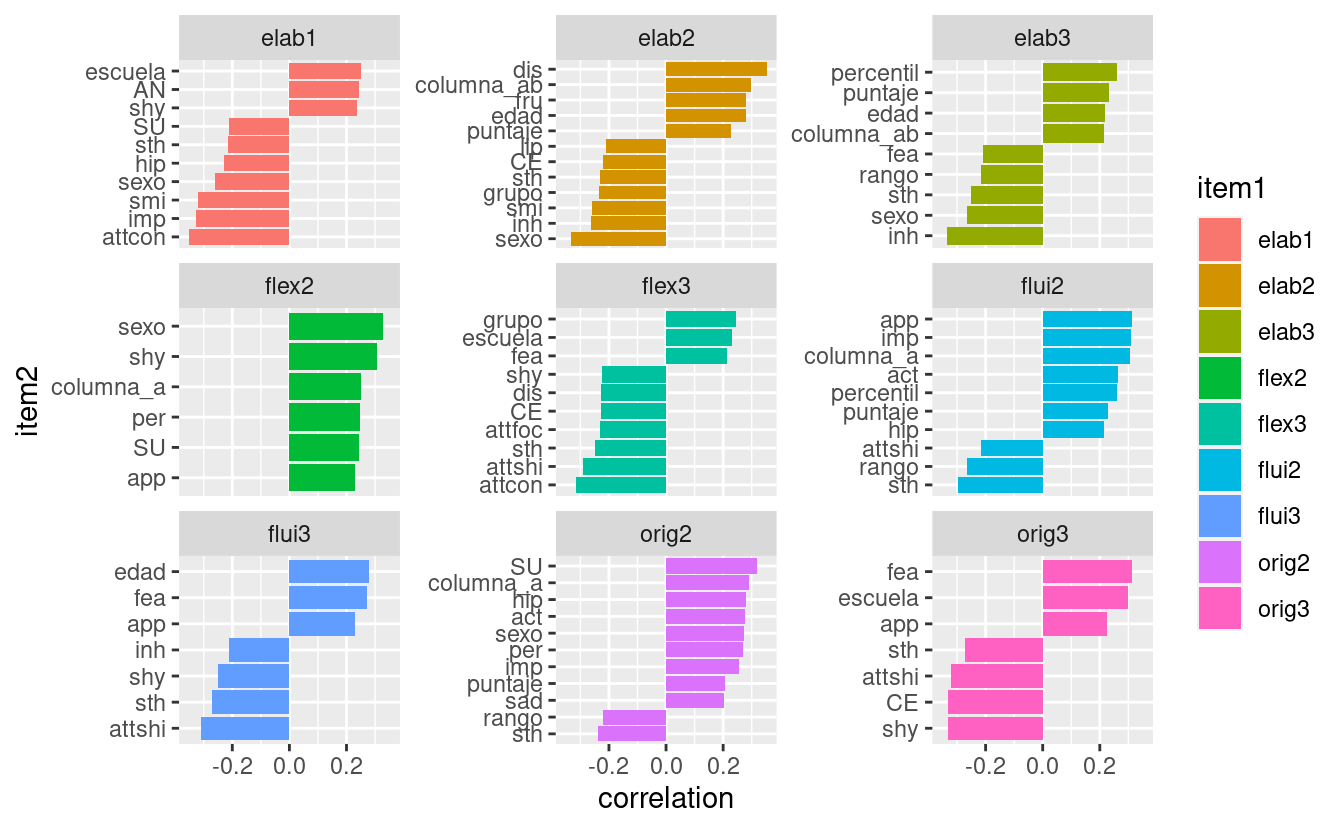
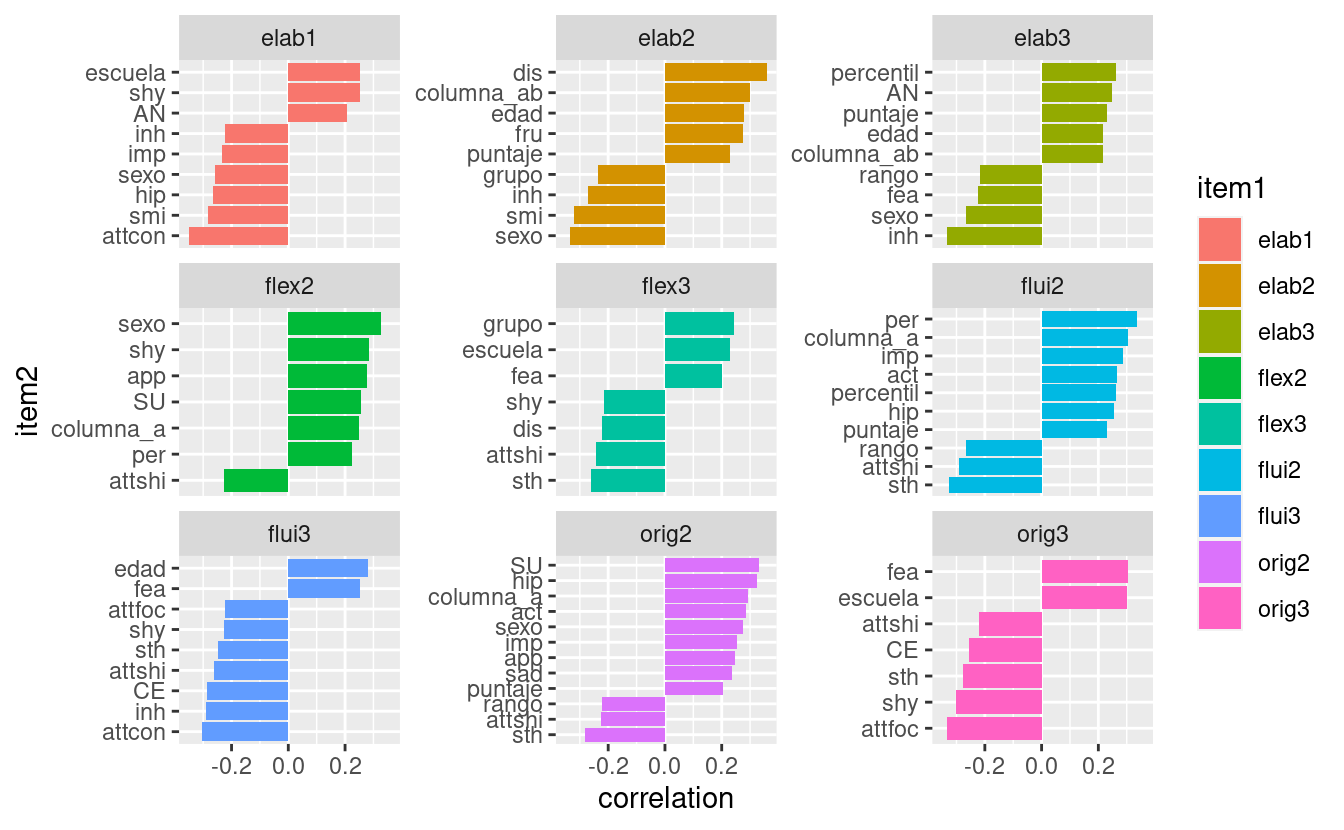
site update

diff --git a/docs/_site/2022/09/06/correlaciones-por-pares/index.html b/docs/_site/2022/09/06/correlaciones-por-pares/index.html
@@ -22,6 +22,11 @@
 
 
 
+
+<link href='//cdnjs.cloudflare.com/ajax/libs/highlight.js/9.12.0/styles/github.min.css' rel='stylesheet' type='text/css' />
+
+
+
 <link rel="stylesheet" href="/css/fonts.css" media="all">
 <link rel="stylesheet" href="/css/main.css" media="all">
 
@@ -59,7 +64,7 @@
 
   <article class="article">
     
-    <span class="article-duration">1 min read</span>
+    <span class="article-duration">5 min read</span>
     
 
     <h1 class="article-title">Correlaciones por Pares</h1>
@@ -77,6 +82,136 @@
 <h2 id="grouped-by-temperament-raven-and-other-variables">Grouped by Temperament, Raven and Other Variables</h2>
 <div class="highlight">
 <p><img src="figs/nontor_paired_correlations_graph-1.png" width="700px" style="display: block; margin: auto;" /></p>
+</div>
+<h1 id="correlation-matrix">Correlation Matrix</h1>
+<div class="highlight">
+<pre class='chroma'><code class='language-r' data-lang='r'><span><span class='c'>#&gt;            orig1       elab1      orig2      flui2      elab2      flex2</span></span>
+<span><span class='c'>#&gt; CE            NA 0.048429202 0.40050026 0.60702460 0.38508135 0.84046308</span></span>
+<span><span class='c'>#&gt; AN            NA 0.271613533 0.54860454 0.75701005 0.40000492 0.80196876</span></span>
+<span><span class='c'>#&gt; SU            NA 0.337593888 0.07248363 0.02249742 0.86490853 0.17210113</span></span>
+<span><span class='c'>#&gt; act           NA 0.306321959 0.12479909 0.15343998 0.83510919 0.94768821</span></span>
+<span><span class='c'>#&gt; fru           NA 0.413266984 0.68841655 0.54379053 0.14108578 0.65619386</span></span>
+<span><span class='c'>#&gt; app           NA 0.994075403 0.19152605 0.03679491 0.73596659 0.14006839</span></span>
+<span><span class='c'>#&gt; attfoc        NA 0.630294693 0.60895048 0.79285568 0.73321085 0.73812586</span></span>
+<span><span class='c'>#&gt; attshi        NA 0.003385515 0.23166572 0.11647367 0.56578965 0.22489352</span></span>
+<span><span class='c'>#&gt; attcon        NA 0.058291714 0.30092357 0.29603831 0.57579929 0.36290690</span></span>
+<span><span class='c'>#&gt; dis           NA 0.411367106 0.36217603 0.46978220 0.05203187 0.96134398</span></span>
+<span><span class='c'>#&gt; sth           NA 0.323644160 0.12925173 0.07892281 0.44396298 0.76448800</span></span>
+<span><span class='c'>#&gt; fea           NA 0.039158180 0.68686931 0.94018709 0.46607729 0.55982018</span></span>
+<span><span class='c'>#&gt; hip           NA 0.155905524 0.07951774 0.17371785 0.85283098 0.40986799</span></span>
+<span><span class='c'>#&gt; imp           NA 0.217233423 0.17494475 0.12325237 0.77470473 0.75898155</span></span>
+<span><span class='c'>#&gt; inh           NA 0.232874180 0.39167080 0.54721125 0.14643113 0.85477794</span></span>
+<span><span class='c'>#&gt; lip           NA 0.839533739 0.67739040 0.96962741 0.41579689 0.54570867</span></span>
+<span><span class='c'>#&gt; per           NA 0.564804644 0.36628355 0.06791328 0.70216634 0.23619353</span></span>
+<span><span class='c'>#&gt; sad           NA 0.919715692 0.20581391 0.29448897 0.89658419 0.49094321</span></span>
+<span><span class='c'>#&gt; shy           NA 0.179449276 0.78691623 0.45208589 0.34518483 0.12621222</span></span>
+<span><span class='c'>#&gt; smi           NA 0.132133325 0.62026238 0.99099420 0.08344986 0.77200729</span></span>
+<span><span class='c'>#&gt; escuela       NA 0.178349185 0.88347013 0.63885320 0.33516126 0.78182750</span></span>
+<span><span class='c'>#&gt; grupo         NA 0.038732668 0.55728772 0.44023044 0.21069945 0.92971638</span></span>
+<span><span class='c'>#&gt; edad          NA 0.835019211 0.68492840 0.59497504 0.13414768 0.85493166</span></span>
+<span><span class='c'>#&gt; sexo          NA 0.165770645 0.14336290 0.34829488 0.07131034 0.07720023</span></span>
+<span><span class='c'>#&gt; percentil     NA 0.466851119 0.34203613 0.16266109 0.36784646 0.84414281</span></span>
+<span><span class='c'>#&gt; rango         NA 0.579441803 0.23954922 0.15403184 0.40388678 0.63899268</span></span>
+<span><span class='c'>#&gt; columna_a     NA 0.415248494 0.11784062 0.10125517 0.72288837 0.18369481</span></span>
+<span><span class='c'>#&gt; columna_ab    NA 0.400944734 0.44367726 0.48419530 0.10903801 0.87556575</span></span>
+<span><span class='c'>#&gt; columna_b     NA 0.641550355 0.97328571 0.72555997 0.82705562 0.64977471</span></span>
+<span><span class='c'>#&gt; puntaje       NA 0.525206411 0.27417713 0.22245358 0.22535564 0.54192527</span></span>
+<span><span class='c'>#&gt;                 orig3     flui3      elab3     flex3</span></span>
+<span><span class='c'>#&gt; CE         0.17302705 0.1225536 0.52233121 0.4591893</span></span>
+<span><span class='c'>#&gt; AN         0.49296547 0.6337643 0.18334953 0.3505472</span></span>
+<span><span class='c'>#&gt; SU         0.92144613 0.5515607 0.66788767 0.3954747</span></span>
+<span><span class='c'>#&gt; act        0.69270673 0.7564842 0.72456501 0.5177286</span></span>
+<span><span class='c'>#&gt; fru        0.99606282 0.9596272 0.02227746 0.7471596</span></span>
+<span><span class='c'>#&gt; app        0.33022695 0.3456013 0.44025997 0.9215413</span></span>
+<span><span class='c'>#&gt; attfoc     0.07054985 0.2336345 0.70168885 0.6772719</span></span>
+<span><span class='c'>#&gt; attshi     0.24017888 0.1620745 0.87592565 0.1975753</span></span>
+<span><span class='c'>#&gt; attcon     0.04761170 0.1005084 0.71868478 0.3165394</span></span>
+<span><span class='c'>#&gt; dis        0.35227834 0.6403167 0.01492814 0.2358629</span></span>
+<span><span class='c'>#&gt; sth        0.13911352 0.1868955 0.45988647 0.1668411</span></span>
+<span><span class='c'>#&gt; fea        0.10268227 0.1786334 0.23058040 0.2864963</span></span>
+<span><span class='c'>#&gt; hip        0.72811086 0.4813129 0.81108738 0.6628628</span></span>
+<span><span class='c'>#&gt; imp        0.63573693 0.8203725 0.79324943 0.9381510</span></span>
+<span><span class='c'>#&gt; inh        0.34931492 0.1180668 0.07101536 0.8026334</span></span>
+<span><span class='c'>#&gt; lip        0.84167404 0.7774568 0.49011697 0.6509855</span></span>
+<span><span class='c'>#&gt; per        0.47262187 0.8450693 0.37939627 0.8794740</span></span>
+<span><span class='c'>#&gt; sad        0.49888850 0.5757836 0.71848313 0.7631338</span></span>
+<span><span class='c'>#&gt; shy        0.10593576 0.2315294 0.68219197 0.2550656</span></span>
+<span><span class='c'>#&gt; smi        0.40938715 0.9424463 0.82613677 0.9390234</span></span>
+<span><span class='c'>#&gt; escuela    0.10682878 0.3130760 0.35922559 0.2209900</span></span>
+<span><span class='c'>#&gt; grupo      0.03726370 0.3046541 0.54152140 0.1935974</span></span>
+<span><span class='c'>#&gt; edad       0.94499465 0.1343969 0.24740297 0.4040723</span></span>
+<span><span class='c'>#&gt; sexo       0.65489056 0.3796209 0.15611096 0.6753914</span></span>
+<span><span class='c'>#&gt; percentil  0.87643144 0.4846394 0.16245114 0.9923595</span></span>
+<span><span class='c'>#&gt; rango      0.82840860 0.4424734 0.24950324 0.9565257</span></span>
+<span><span class='c'>#&gt; columna_a  0.74995407 0.5010882 0.40956580 0.7040131</span></span>
+<span><span class='c'>#&gt; columna_ab 0.64468488 0.9835957 0.25398732 0.4286248</span></span>
+<span><span class='c'>#&gt; columna_b  0.57461370 0.6547052 0.64542870 0.8276008</span></span>
+<span><span class='c'>#&gt; puntaje    0.86511985 0.6599027 0.21972738 0.6670841</span></span></code></pre>
+</div>
+<h1 id="p-values-matrix">P-values Matrix</h1>
+<div class="highlight">
+<pre class='chroma'><code class='language-r' data-lang='r'><span><span class='c'>#&gt;            orig1      elab1      orig2      flui2      elab2      flex2</span></span>
+<span><span class='c'>#&gt; CE            NA         NA         NA         NA         NA         NA</span></span>
+<span><span class='c'>#&gt; AN            NA  0.2073328         NA         NA         NA         NA</span></span>
+<span><span class='c'>#&gt; SU            NA         NA  0.3326402         NA         NA  0.2560024</span></span>
+<span><span class='c'>#&gt; act           NA         NA  0.2865020  0.2672095         NA         NA</span></span>
+<span><span class='c'>#&gt; fru           NA         NA         NA         NA  0.2751791         NA</span></span>
+<span><span class='c'>#&gt; app           NA         NA  0.2452156         NA         NA  0.2758576</span></span>
+<span><span class='c'>#&gt; attfoc        NA         NA         NA         NA         NA         NA</span></span>
+<span><span class='c'>#&gt; attshi        NA         NA -0.2251221 -0.2927152         NA -0.2283361</span></span>
+<span><span class='c'>#&gt; attcon        NA -0.3495612         NA         NA         NA         NA</span></span>
+<span><span class='c'>#&gt; dis           NA         NA         NA         NA  0.3580710         NA</span></span>
+<span><span class='c'>#&gt; sth           NA         NA -0.2833037 -0.3258035         NA         NA</span></span>
+<span><span class='c'>#&gt; fea           NA         NA         NA         NA         NA         NA</span></span>
+<span><span class='c'>#&gt; hip           NA -0.2656748  0.3251938  0.2550729         NA         NA</span></span>
+<span><span class='c'>#&gt; imp           NA -0.2320512  0.2543716  0.2876326         NA         NA</span></span>
+<span><span class='c'>#&gt; inh           NA -0.2245553         NA         NA -0.2716713         NA</span></span>
+<span><span class='c'>#&gt; lip           NA         NA         NA         NA         NA         NA</span></span>
+<span><span class='c'>#&gt; per           NA         NA         NA  0.3377836         NA  0.2230084</span></span>
+<span><span class='c'>#&gt; sad           NA         NA  0.2377590         NA         NA         NA</span></span>
+<span><span class='c'>#&gt; shy           NA  0.2518261         NA         NA         NA  0.2854780</span></span>
+<span><span class='c'>#&gt; smi           NA -0.2812768         NA         NA -0.3212498         NA</span></span>
+<span><span class='c'>#&gt; escuela       NA  0.2524436         NA         NA         NA         NA</span></span>
+<span><span class='c'>#&gt; grupo         NA         NA         NA         NA -0.2352912         NA</span></span>
+<span><span class='c'>#&gt; edad          NA         NA         NA         NA  0.2798791         NA</span></span>
+<span><span class='c'>#&gt; sexo          NA -0.2597026  0.2736732         NA -0.3339361  0.3275890</span></span>
+<span><span class='c'>#&gt; percentil     NA         NA         NA  0.2615571         NA         NA</span></span>
+<span><span class='c'>#&gt; rango         NA         NA -0.2214592 -0.2668395         NA         NA</span></span>
+<span><span class='c'>#&gt; columna_a     NA         NA  0.2916730  0.3049843         NA  0.2494677</span></span>
+<span><span class='c'>#&gt; columna_ab    NA         NA         NA         NA  0.2985496         NA</span></span>
+<span><span class='c'>#&gt; columna_b     NA         NA         NA         NA         NA         NA</span></span>
+<span><span class='c'>#&gt; puntaje       NA         NA  0.2062515  0.2295100  0.2281147         NA</span></span>
+<span><span class='c'>#&gt;                 orig3      flui3      elab3      flex3</span></span>
+<span><span class='c'>#&gt; CE         -0.2554693 -0.2881468         NA         NA</span></span>
+<span><span class='c'>#&gt; AN                 NA         NA  0.2496581         NA</span></span>
+<span><span class='c'>#&gt; SU                 NA         NA         NA         NA</span></span>
+<span><span class='c'>#&gt; act                NA         NA         NA         NA</span></span>
+<span><span class='c'>#&gt; fru                NA         NA         NA         NA</span></span>
+<span><span class='c'>#&gt; app                NA         NA         NA         NA</span></span>
+<span><span class='c'>#&gt; attfoc     -0.3347849 -0.2241997         NA         NA</span></span>
+<span><span class='c'>#&gt; attshi     -0.2211701 -0.2619098         NA -0.2420132</span></span>
+<span><span class='c'>#&gt; attcon             NA -0.3056210         NA         NA</span></span>
+<span><span class='c'>#&gt; dis                NA         NA         NA -0.2231618</span></span>
+<span><span class='c'>#&gt; sth        -0.2764977 -0.2477149         NA -0.2590700</span></span>
+<span><span class='c'>#&gt; fea         0.3037773  0.2522838 -0.2256329  0.2011441</span></span>
+<span><span class='c'>#&gt; hip                NA         NA         NA         NA</span></span>
+<span><span class='c'>#&gt; imp                NA         NA         NA         NA</span></span>
+<span><span class='c'>#&gt; inh                NA -0.2915014 -0.3342645         NA</span></span>
+<span><span class='c'>#&gt; lip                NA         NA         NA         NA</span></span>
+<span><span class='c'>#&gt; per                NA         NA         NA         NA</span></span>
+<span><span class='c'>#&gt; sad                NA         NA         NA         NA</span></span>
+<span><span class='c'>#&gt; shy        -0.3010719 -0.2251862         NA -0.2144775</span></span>
+<span><span class='c'>#&gt; smi                NA         NA         NA         NA</span></span>
+<span><span class='c'>#&gt; escuela     0.3003402         NA         NA  0.2302184</span></span>
+<span><span class='c'>#&gt; grupo              NA         NA         NA  0.2441113</span></span>
+<span><span class='c'>#&gt; edad               NA  0.2797072  0.2178891         NA</span></span>
+<span><span class='c'>#&gt; sexo               NA         NA -0.2655477         NA</span></span>
+<span><span class='c'>#&gt; percentil          NA         NA  0.2616832         NA</span></span>
+<span><span class='c'>#&gt; rango              NA         NA -0.2169472         NA</span></span>
+<span><span class='c'>#&gt; columna_a          NA         NA         NA         NA</span></span>
+<span><span class='c'>#&gt; columna_ab         NA         NA  0.2149535         NA</span></span>
+<span><span class='c'>#&gt; columna_b          NA         NA         NA         NA</span></span>
+<span><span class='c'>#&gt; puntaje            NA         NA  0.2308321         NA</span></span></code></pre>
 </div>
 
     </div>
@@ -100,6 +235,18 @@
 
     </div>
     
+
+
+
+<script src="//cdnjs.cloudflare.com/ajax/libs/highlight.js/9.12.0/highlight.min.js"></script>
+
+
+
+<script src="//cdnjs.cloudflare.com/ajax/libs/highlight.js/9.12.0/languages/r.min.js"></script>
+<script src="//cdnjs.cloudflare.com/ajax/libs/highlight.js/9.12.0/languages/yaml.min.js"></script>
+<script>hljs.configure({languages: []}); hljs.initHighlightingOnLoad();</script>
+
+
 
     
 

diff --git a/docs/_site/2022/09/06/totales-torrance/index.html b/docs/_site/2022/09/06/totales-torrance/index.html
@@ -22,6 +22,11 @@
 
 
 
+
+<link href='//cdnjs.cloudflare.com/ajax/libs/highlight.js/9.12.0/styles/github.min.css' rel='stylesheet' type='text/css' />
+
+
+
 <link rel="stylesheet" href="/css/fonts.css" media="all">
 <link rel="stylesheet" href="/css/main.css" media="all">
 
@@ -59,7 +64,7 @@
 
   <article class="article">
     
-    <span class="article-duration">1 min read</span>
+    <span class="article-duration">3 min read</span>
     
 
     <h1 class="article-title">Totales Torrance</h1>
@@ -70,14 +75,84 @@
 
     <div class="article-content">
       <h1 id="totals-in-torrance">TOTALS IN TORRANCE</h1>
-<h2 id="paired-correlations">PAIRED CORRELATIONS</h2>
+<h1 id="correlation-matrix">Correlation Matrix</h1>
+<p>Only significant, p &lt; 0.05, correlations</p>
+<div class="highlight">
+<pre class='chroma'><code class='language-r' data-lang='r'><span><span class='c'>#&gt;            originalidad    fluidez elaboracion flexibilidad   pdirecta</span></span>
+<span><span class='c'>#&gt; CE           -0.2623397 -0.2114765  -0.2319202           NA -0.2873956</span></span>
+<span><span class='c'>#&gt; AN                   NA         NA          NA           NA         NA</span></span>
+<span><span class='c'>#&gt; SU                   NA         NA          NA           NA         NA</span></span>
+<span><span class='c'>#&gt; act                  NA         NA          NA           NA         NA</span></span>
+<span><span class='c'>#&gt; fru                  NA         NA   0.2693739           NA         NA</span></span>
+<span><span class='c'>#&gt; app                  NA         NA          NA           NA         NA</span></span>
+<span><span class='c'>#&gt; attfoc       -0.2202071 -0.2059690          NA           NA -0.2374962</span></span>
+<span><span class='c'>#&gt; attshi               NA         NA          NA   -0.2523904 -0.2385132</span></span>
+<span><span class='c'>#&gt; attcon       -0.2652232 -0.2509161  -0.2209377           NA -0.2997329</span></span>
+<span><span class='c'>#&gt; dis                  NA         NA   0.3292718   -0.2147124         NA</span></span>
+<span><span class='c'>#&gt; sth          -0.2253470         NA  -0.2167063           NA -0.2630455</span></span>
+<span><span class='c'>#&gt; fea           0.2843426  0.2379703          NA           NA         NA</span></span>
+<span><span class='c'>#&gt; hip                  NA         NA          NA           NA         NA</span></span>
+<span><span class='c'>#&gt; imp                  NA         NA          NA           NA         NA</span></span>
+<span><span class='c'>#&gt; inh          -0.2490485 -0.2347775  -0.3101759           NA -0.2929208</span></span>
+<span><span class='c'>#&gt; lip                  NA         NA          NA           NA         NA</span></span>
+<span><span class='c'>#&gt; per                  NA         NA          NA           NA         NA</span></span>
+<span><span class='c'>#&gt; sad                  NA         NA          NA           NA         NA</span></span>
+<span><span class='c'>#&gt; shy          -0.2044280         NA          NA           NA         NA</span></span>
+<span><span class='c'>#&gt; smi                  NA         NA          NA           NA         NA</span></span>
+<span><span class='c'>#&gt; escuela       0.3342620  0.2719163          NA    0.2172832  0.2636171</span></span>
+<span><span class='c'>#&gt; grupo         0.2981489  0.2840822          NA    0.2106177  0.2501755</span></span>
+<span><span class='c'>#&gt; edad          0.2398332  0.2768105          NA           NA  0.2742450</span></span>
+<span><span class='c'>#&gt; sexo          0.2038745         NA  -0.2721537    0.2068457         NA</span></span>
+<span><span class='c'>#&gt; percentil            NA         NA          NA           NA         NA</span></span>
+<span><span class='c'>#&gt; rango                NA         NA          NA           NA         NA</span></span>
+<span><span class='c'>#&gt; columna_a            NA         NA          NA           NA         NA</span></span>
+<span><span class='c'>#&gt; columna_ab           NA         NA          NA           NA         NA</span></span>
+<span><span class='c'>#&gt; columna_b            NA         NA          NA           NA         NA</span></span>
+<span><span class='c'>#&gt; puntaje              NA         NA          NA           NA         NA</span></span></code></pre>
+</div>
+<h1 id="p-values-matrix">P-values Matrix</h1>
+<p>all p-values</p>
+<div class="highlight">
+<pre class='chroma'><code class='language-r' data-lang='r'><span><span class='c'>#&gt;            originalidad   fluidez elaboracion flexibilidad   pdirecta</span></span>
+<span><span class='c'>#&gt; CE           0.14024174 0.2374370  0.19404659    0.5588499 0.10486208</span></span>
+<span><span class='c'>#&gt; AN           0.90855218 0.7506332  0.64969506    0.3040696 0.90936029</span></span>
+<span><span class='c'>#&gt; SU           0.94597847 0.8061145  0.99163098    0.8775246 0.94809117</span></span>
+<span><span class='c'>#&gt; act          0.56812432 0.5362185  0.93891705    0.6475969 0.67030427</span></span>
+<span><span class='c'>#&gt; fru          0.94303382 0.8667372  0.12953242    0.5371781 0.72551254</span></span>
+<span><span class='c'>#&gt; app          0.77256714 0.4941664  0.32398944    0.6195353 0.54102700</span></span>
+<span><span class='c'>#&gt; attfoc       0.21817285 0.2501597  0.32705095    0.7445662 0.18324148</span></span>
+<span><span class='c'>#&gt; attshi       0.27170948 0.2887880  0.32930705    0.1564746 0.18131742</span></span>
+<span><span class='c'>#&gt; attcon       0.13577603 0.1589907  0.21661066    0.3225803 0.09014049</span></span>
+<span><span class='c'>#&gt; dis          0.48747935 0.4197331  0.06132441    0.2301681 0.80020136</span></span>
+<span><span class='c'>#&gt; sth          0.20734530 0.2776616  0.22576483    0.3019608 0.13913886</span></span>
+<span><span class='c'>#&gt; fea          0.10877039 0.1823427  0.27003303    0.5586462 0.27742043</span></span>
+<span><span class='c'>#&gt; hip          0.62046622 0.7024978  0.71795286    0.9383506 0.76205578</span></span>
+<span><span class='c'>#&gt; imp          0.31767724 0.5350153  0.74117194    0.8803897 0.47001845</span></span>
+<span><span class='c'>#&gt; inh          0.16221949 0.1884556  0.07896210    0.9170908 0.09805979</span></span>
+<span><span class='c'>#&gt; lip          0.51567605 0.9136887  0.40470841    0.4989734 0.53395516</span></span>
+<span><span class='c'>#&gt; per          0.79594545 0.5169419  0.40668155    0.7513902 0.59915005</span></span>
+<span><span class='c'>#&gt; sad          0.88911838 0.9343466  0.85954818    0.9145747 0.88425320</span></span>
+<span><span class='c'>#&gt; shy          0.25379905 0.3388283  0.64443933    0.8163397 0.39849174</span></span>
+<span><span class='c'>#&gt; smi          0.61945105 0.9541833  0.39419113    0.8774753 0.55070113</span></span>
+<span><span class='c'>#&gt; escuela      0.05726995 0.1258142  0.46464954    0.2245016 0.13825037</span></span>
+<span><span class='c'>#&gt; grupo        0.09193680 0.1091088  0.61926380    0.2393916 0.16026552</span></span>
+<span><span class='c'>#&gt; edad         0.17884153 0.1188800  0.26480649    0.5033775 0.12247838</span></span>
+<span><span class='c'>#&gt; sexo         0.25511462 0.4463889  0.12547115    0.2481047 0.52674670</span></span>
+<span><span class='c'>#&gt; percentil    0.37016983 0.5475964  0.85667458    0.9101919 0.43623223</span></span>
+<span><span class='c'>#&gt; rango        0.30965190 0.5285169  0.93528771    0.7710594 0.39027347</span></span>
+<span><span class='c'>#&gt; columna_a    0.37549121 0.6811387  0.98117051    0.3452631 0.43075443</span></span>
+<span><span class='c'>#&gt; columna_ab   0.55235020 0.7159446  0.62306018    0.5339645 0.59133820</span></span>
+<span><span class='c'>#&gt; columna_b    0.75425133 0.5735450  0.44331929    0.9660331 0.61821490</span></span>
+<span><span class='c'>#&gt; puntaje      0.39389110 0.5303713  0.52052847    0.9641663 0.39135964</span></span></code></pre>
+</div>
+<h2 id="graphics-paired-correlations">GRAPHICS PAIRED CORRELATIONS</h2>
 <h3 id="grouped-by-totals-in-torrance">Grouped by Totals in Torrance</h3>
 <div class="highlight">
-<p><img src="figs/torrance_paired_correlations_graph-1.png" width="700px" style="display: block; margin: auto;" /></p>
+<p><img src="figs/totals_torrance_paired_correlations_graph-1.png" width="700px" style="display: block; margin: auto;" /></p>
 </div>
 <h3 id="grouped-by-temperament-raven-and-other-variables">Grouped by Temperament, Raven and Other Variables</h3>
 <div class="highlight">
-<p><img src="figs/nontor_paired_correlations_graph-1.png" width="700px" style="display: block; margin: auto;" /></p>
+<p><img src="figs/other_variables_paired_correlations_graph-1.png" width="700px" style="display: block; margin: auto;" /></p>
 </div>
 
     </div>
@@ -101,6 +176,18 @@
 
     </div>
     
+
+
+
+<script src="//cdnjs.cloudflare.com/ajax/libs/highlight.js/9.12.0/highlight.min.js"></script>
+
+
+
+<script src="//cdnjs.cloudflare.com/ajax/libs/highlight.js/9.12.0/languages/r.min.js"></script>
+<script src="//cdnjs.cloudflare.com/ajax/libs/highlight.js/9.12.0/languages/yaml.min.js"></script>
+<script>hljs.configure({languages: []}); hljs.initHighlightingOnLoad();</script>
+
+
 
     
 
